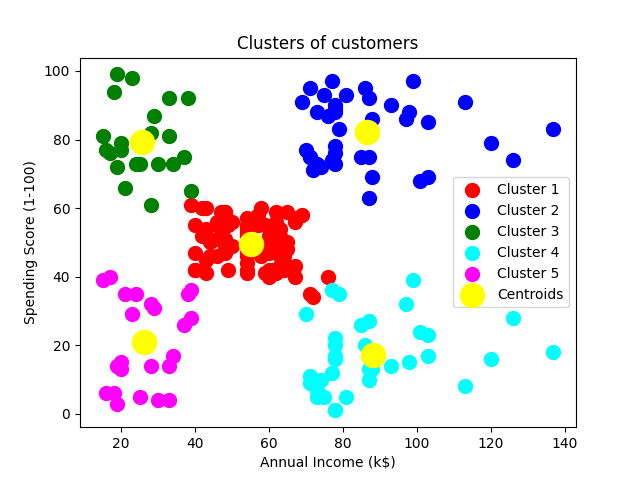
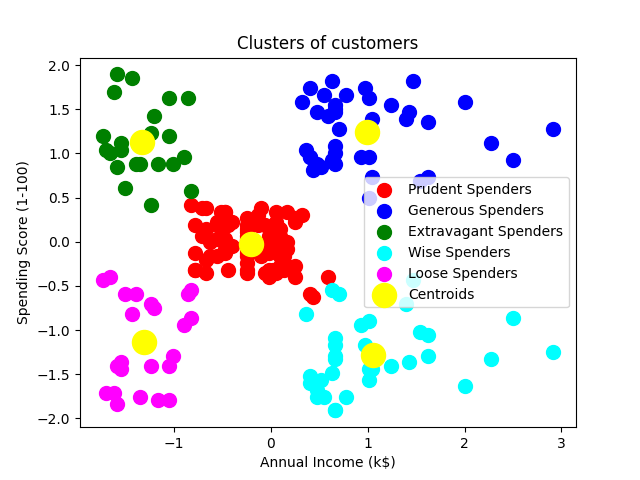
Created the frontend app (Streamlit)

diff --git a/kmeans_model.py b/kmeans_model.py
@@ -35,11 +35,11 @@ y_pred = kmeans.fit_predict(X_scaled)
 joblib.dump((kmeans, scaler), "model/model.pkl")
 
 # Predictions
-plt.scatter(X_scaled[y_pred == 0, 0], X_scaled[y_pred == 0, 1], s=100, c="red", label="Cluster 1")
-plt.scatter(X_scaled[y_pred == 1, 0], X_scaled[y_pred == 1, 1], s=100, c="blue", label="Cluster 2")
-plt.scatter(X_scaled[y_pred == 2, 0], X_scaled[y_pred == 2, 1], s=100, c="green", label="Cluster 3")
-plt.scatter(X_scaled[y_pred == 3, 0], X_scaled[y_pred == 3, 1], s=100, c="cyan", label="Cluster 4")
-plt.scatter(X_scaled[y_pred == 4, 0], X_scaled[y_pred == 4, 1], s=100, c="magenta", label="Cluster 5")
+plt.scatter(X_scaled[y_pred == 0, 0], X_scaled[y_pred == 0, 1], s=100, c="red", label="Prudent Spenders")
+plt.scatter(X_scaled[y_pred == 1, 0], X_scaled[y_pred == 1, 1], s=100, c="blue", label="Generous Spenders")
+plt.scatter(X_scaled[y_pred == 2, 0], X_scaled[y_pred == 2, 1], s=100, c="green", label="Extravagant Spenders")
+plt.scatter(X_scaled[y_pred == 3, 0], X_scaled[y_pred == 3, 1], s=100, c="cyan", label="Wise Spenders")
+plt.scatter(X_scaled[y_pred == 4, 0], X_scaled[y_pred == 4, 1], s=100, c="magenta", label="Loose Spenders")
 plt.scatter(
     kmeans.cluster_centers_[:, 0],
     kmeans.cluster_centers_[:, 1],

diff --git a/api.py b/api.py
@@ -31,11 +31,11 @@ def predict_cluster(data: CustomerData):
 
     #Map cluster numbers to letters
     cluster_mapping = {
-        0: "Cluster A",
-        1: "Cluster B",
-        2: "Cluster C",
-        3: "Cluster D",
-        4: "Cluster E"
+        0: "Prudent Spender",
+        1: "Generous Spender",
+        2: "Extravagant Spender",
+        3: "Wise Spender",
+        4: "Loose Spender"
     }
 
     cluster_label = cluster_mapping.get(cluster, "Unknown Cluster")

diff --git a/app.py b/app.py
@@ -35,3 +35,6 @@ if st.button("Predict Customer's Segmentation"):
         rain(emoji="🎈", font_size=54, falling_speed=5, animation_length=3)
     else:
         st.error("Error: Unable to fetch prediction.")
+
+# Load image
+st.image("src/Figure_2.png", caption="Customers Segmentation with K-Means Clustering", use_container_width=True)
